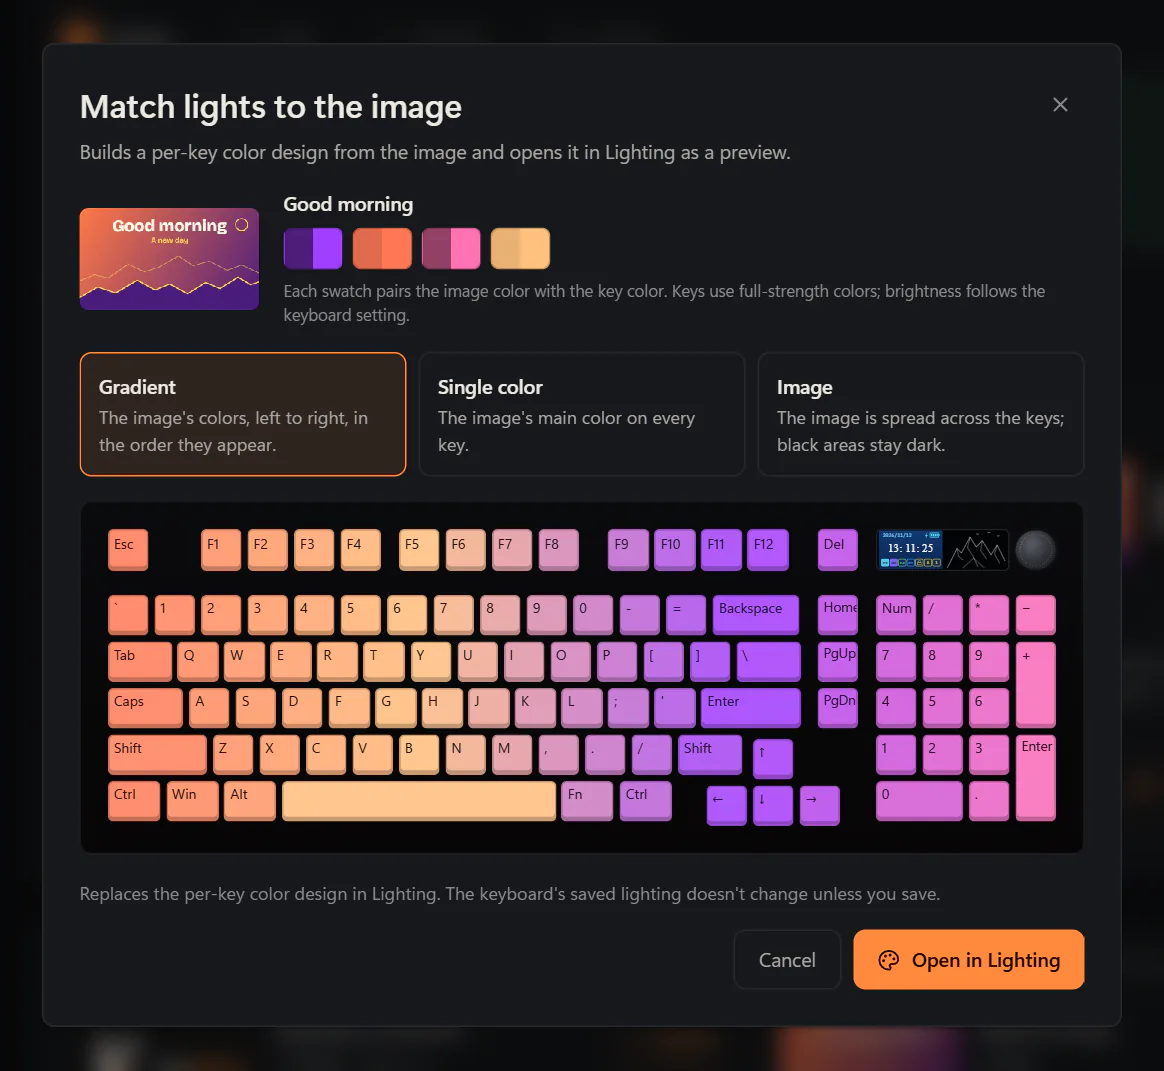
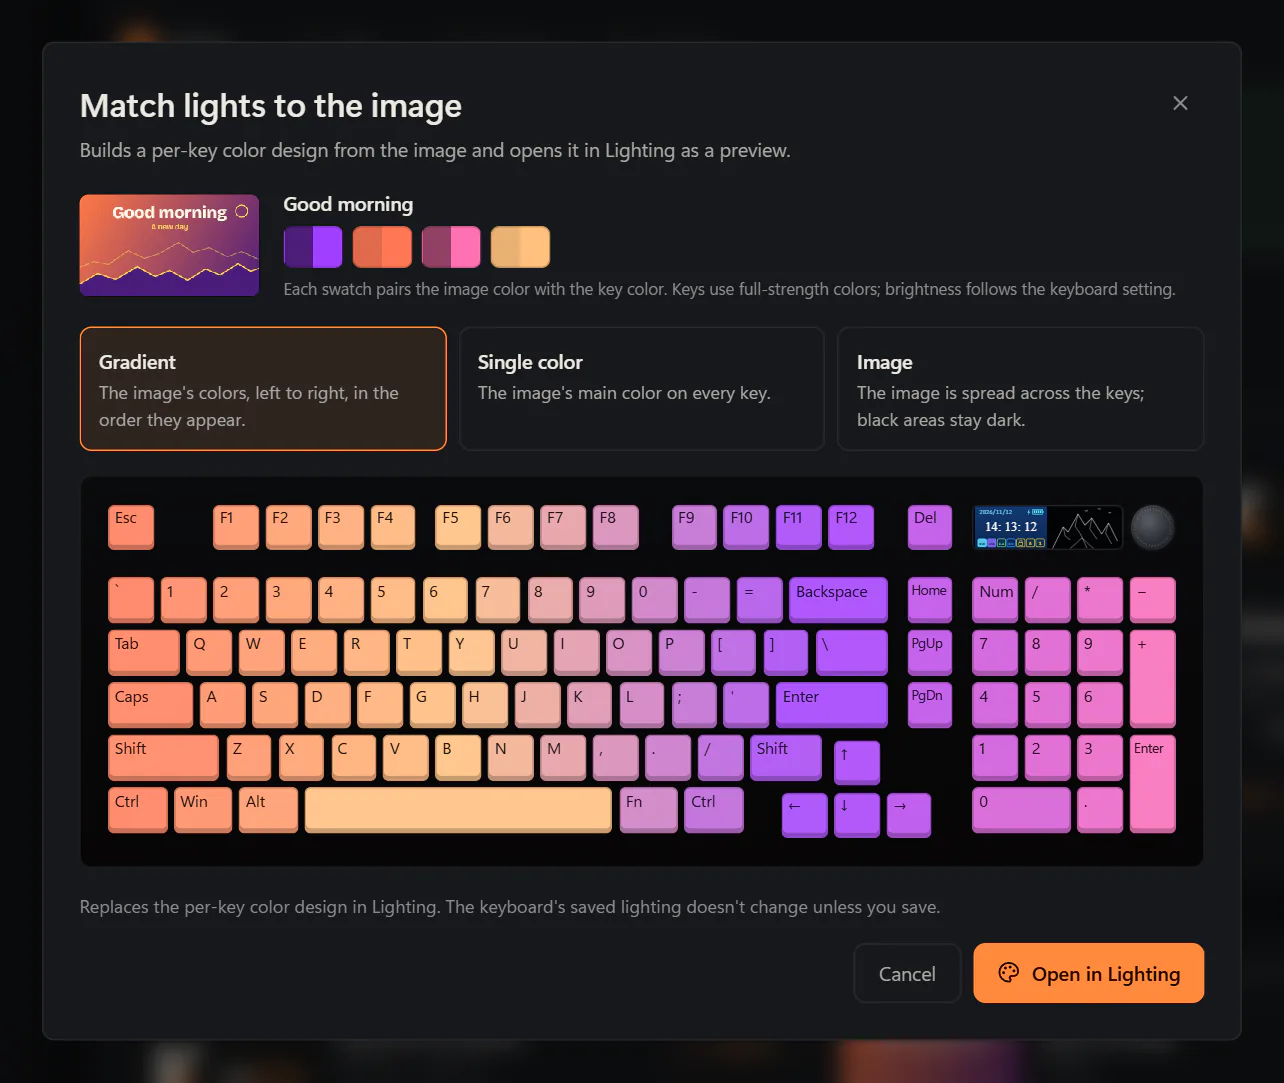
Small fixes found in stage 7 (roadmap 7.7)
App:
- "Turn on live mode?" and "Canlı mod" become "live screen" / "Canlı
  ekran", like the rest of the app and the guide.
- Live screen tab: which card is on the GIF page now comes from the
  backend (LiveState.showing). Before, "Your image" said "On screen now"
  whenever there was nothing to put back, for example after the first card
  replaced the factory animation. The Calendar page and the "On screen"
  line use it too.
- The GIF page's "Unknown" reads "Not uploaded from the app yet".
- Match lights: a wider window, and four-letter labels on 1u keys (Home,
  PgUp, PgDn) get more of the cap's width, so they no longer run into its
  edge.

Keyboard safety:
- 04 17 (keyboard options) comes off the allowlist: it writes flash and
  was never measured; the guard test now expects it blocked.
- Model file: [screen] verified = true (uploads measured on 2026-11-10);
  has_side_light is marked as unmeasured.
- kb: refuses to open the keyboard while another program uses it (the
  app included) and checks each channel's report layout, like the app.
  It still skips the firmware question on purpose (documented).

Browser preview (development only):
- The mirror reports the saved lighting, so previews and screenshots show
  lit keys; the problem report has realistic sample text; ?pomoskip=N
  starts the focus timer N minutes in.
- Screenshots retaken: overview, live screen, focus timer, report and
  match lights, and the README's main picture.

diff --git a/app/src/lib/i18n.ts b/app/src/lib/i18n.ts
@@ -429,7 +429,7 @@ const tr = {
   "sc.page.home.sub": "Değiştirilemez",
   "sc.page.gif": "GIF sayfası",
   "sc.page.gif.maybeFactory": "Büyük olasılıkla fabrika animasyonu",
-  "sc.page.gif.unknown": "Bilinmiyor",
+  "sc.page.gif.unknown": "Uygulamadan henüz yüklenmedi",
   "sc.pages.note": "Sayfalar arasında Fn+Home ile geçilir. Klavye saati ayarlanınca ekran saat sayfasına döner.",
   "sc.pages.safe": "Yüklemeler yalnızca GIF sayfasını değiştirir; saat sayfası hep yerinde kalır.",
   "sc.err.tooLarge": "Dosya çok büyük. Resim ve GIF en çok 64 MB, video en çok 1 GB olabilir.",
@@ -1121,9 +1121,9 @@ const tr = {
   "sc.factory.backup": "Resmi sürücüden yedek al",
   "sc.factory.backingUp": "Yedekleniyor…",
   "sc.factory.backedUp": "Fabrika animasyonu yedeklendi. Kütüphaneden istediğiniz zaman geri yükleyebilirsiniz.",
-  "sc.live.ack.title": "Canlı mod açılsın mı?",
-  "sc.live.ack.body": "Canlı mod kartları GIF sayfasına yükler. İlk kart klavyedeki fabrika animasyonunu kalıcı olarak siler ve uygulamada yedeği yok.",
-  "sc.live.ack.go": "Canlı modu aç",
+  "sc.live.ack.title": "Canlı ekran açılsın mı?",
+  "sc.live.ack.body": "Canlı ekran kartları GIF sayfasına yükler. İlk kart klavyedeki fabrika animasyonunu kalıcı olarak siler ve uygulamada yedeği yok.",
+  "sc.live.ack.go": "Canlı ekranı aç",
   "sc.incomplete.title": "Son yükleme yarım kaldı",
   "sc.incomplete.body": "GIF sayfasında yüklemenin yalnızca bir kısmı var; bozuk görünebilir.",
   "sc.incomplete.retry": "Düzeltmek için “{name}” görselini yeniden yükleyin.",
@@ -1136,7 +1136,7 @@ const tr = {
   "unsaved.write": "Klavyeye kaydediliyor. Bitmeden çıkarsanız ayar yarım kalabilir.",
   "write.reason": "Klavyeye kaydediliyor. Bilgisayarı şimdi kapatırsanız kayıt yarım kalabilir.",
   "err.noDriver": "Resmi sürücünün dosyası bulunamadı. Sürücüyü kurup uygulamayı yeniden başlatın.",
-  "err.factoryAck": "Canlı modu açmadan önce fabrika animasyonuyla ilgili soruyu yanıtlayın.",
+  "err.factoryAck": "Canlı ekranı açmadan önce fabrika animasyonuyla ilgili soruyu yanıtlayın.",
   // diagnostics and data
   "data.backup": "Yedekleme",
   "data.export": "Ayarları dışa aktar",
@@ -1868,7 +1868,7 @@ const en: Record<MessageKey, string> = {
   "sc.page.home.sub": "Can't be changed",
   "sc.page.gif": "GIF page",
   "sc.page.gif.maybeFactory": "Probably the factory animation",
-  "sc.page.gif.unknown": "Unknown",
+  "sc.page.gif.unknown": "Not uploaded from the app yet",
   "sc.pages.note": "Press Fn+Home to switch pages. Setting the keyboard clock brings back the clock page.",
   "sc.pages.safe": "Uploads change only the GIF page. The clock page always stays.",
   "sc.err.tooLarge": "This file is too large. Images and GIFs can be up to 64 MB, videos up to 1 GB.",
@@ -2560,9 +2560,9 @@ const en: Record<MessageKey, string> = {
   "sc.factory.backup": "Back up from the official driver",
   "sc.factory.backingUp": "Backing up…",
   "sc.factory.backedUp": "The factory animation is backed up. You can restore it from the library any time.",
-  "sc.live.ack.title": "Turn on live mode?",
-  "sc.live.ack.body": "Live mode uploads cards to the GIF page. The first card permanently erases the factory animation on the keyboard, and the app has no backup of it.",
-  "sc.live.ack.go": "Turn on live mode",
+  "sc.live.ack.title": "Turn on live screen?",
+  "sc.live.ack.body": "Live screen uploads cards to the GIF page. The first card permanently erases the factory animation on the keyboard, and the app has no backup of it.",
+  "sc.live.ack.go": "Turn on live screen",
   "sc.incomplete.title": "The last upload didn't finish",
   "sc.incomplete.body": "The GIF page holds only part of the upload and may look broken.",
   "sc.incomplete.retry": "To fix it, upload “{name}” again.",
@@ -2575,7 +2575,7 @@ const en: Record<MessageKey, string> = {
   "unsaved.write": "Saving to the keyboard. Quitting now can leave the setting half saved.",
   "write.reason": "Saving to the keyboard. Shutting down now can leave it half saved.",
   "err.noDriver": "The official driver's file wasn't found. Install the driver, then restart the app.",
-  "err.factoryAck": "Before turning on live mode, answer the question about the factory animation.",
+  "err.factoryAck": "Before turning on live screen, answer the question about the factory animation.",
   // diagnostics and data
   "data.backup": "Backup",
   "data.export": "Export settings",

diff --git a/app/src/lib/ipc.ts b/app/src/lib/ipc.ts
@@ -320,13 +320,52 @@ export function setLiveFrame(colors: LedColor[] | null, brightness = 5): Promise
  * what the app last saved there; it resolves the read-back's red channel.
  */
 export function setMirror(enabled: boolean, hint: MirrorHint | null = null): Promise<void> {
-  if (import.meta.env.DEV && !inTauri) return Promise.resolve();
+  if (import.meta.env.DEV && !inTauri) {
+    if (enabled && hint) mockMirrorListener?.(mockMirrorColors(hint));
+    return Promise.resolve();
+  }
   return serial(() => invoke<void>("set_mirror", { enabled, hint }));
 }
 
 export async function onMirror(cb: (colors: LedColor[]) => void): Promise<UnlistenFn> {
-  if (import.meta.env.DEV && !inTauri) return () => {};
+  if (import.meta.env.DEV && !inTauri) {
+    mockMirrorListener = cb;
+    return () => {
+      if (mockMirrorListener === cb) mockMirrorListener = null;
+    };
+  }
   return listen<LedColor[]>("lighting-mirror", (e) => cb(e.payload));
+}
+
+// Browser mock: the mirror reports what was last saved, as the keyboard
+// would (a single-colour effect on every key, a rainbow across the board for
+// the others, a per-key design as saved), so previews and screenshots show
+// lit keys.
+let mockMirrorListener: ((colors: LedColor[]) => void) | null = null;
+
+function mockMirrorColors(hint: MirrorHint): LedColor[] {
+  const scale = Math.max(0, Math.min(5, hint.brightness)) / 5;
+  const dim = (c: LedColor): LedColor => ({
+    led: c.led,
+    r: Math.round(c.r * scale),
+    g: Math.round(c.g * scale),
+    b: Math.round(c.b * scale),
+  });
+  if (hint.keys) return hint.keys.map(dim);
+  const keys = ak980Geometry.keys;
+  if (hint.color) {
+    const n = Number.parseInt(hint.color.slice(1), 16);
+    return keys.map((k) => dim({ led: k.led, r: (n >> 16) & 255, g: (n >> 8) & 255, b: n & 255 }));
+  }
+  return keys.map((k) => {
+    // Hue by position, full saturation: the rainbow most effects start with.
+    const h = ((k.x / ak980Geometry.width) * 360) % 360;
+    const f = (o: number) => {
+      const t = (o + h / 60) % 6;
+      return Math.round(255 * (1 - Math.max(0, Math.min(1, Math.min(t, 4 - t)))));
+    };
+    return dim({ led: k.led, r: f(5), g: f(3), b: f(1) });
+  });
 }
 
 // Browser-only stand-in for the keyboard clock state.
@@ -510,9 +549,31 @@ export function logUiError(message: string): Promise<void> {
  *  lines). A problem report passes what happened (`context`) for the top. */
 export async function getDiagnostics(language: string, context?: string): Promise<string> {
   if (import.meta.env.DEV && !inTauri) {
+    // Shaped like the real report (app/src-tauri/src/diagnostics.rs), with
+    // made-up values, so previews and screenshots look right.
     await mockDelay(150);
-    const what = context ? `\nWhat happened:\n  ${context.split("\n").join("\n  ")}\n` : "";
-    return `Browser preview diagnostics\nUI language: ${language}${what}\nUser agent: ${navigator.userAgent}\n`;
+    const what = context ? `\n\nWhat happened:\n  ${context.split("\n").join("\n  ")}` : "";
+    return [
+      "Keymotion diagnostics",
+      `Created: ${new Date().toISOString().replace(/\.\d{3}Z$/, "Z")}`,
+      "App version: 0.1.0",
+      "Windows: Windows 11 Home 25H2 (build 26200.7171)",
+      "WebView2: 142.0.3595.80",
+      `UI language: ${language}${what}`,
+      "",
+      "Keyboards:",
+      '  AJAZZ AK980 PRO (ajazz-ak980-pro), usb, firmware 1.06, product "AK980 PRO"',
+      "",
+      "Data files:",
+      "  lighting.json (2.1 KB)",
+      "  settings.json (1.4 KB)",
+      "",
+      "Last 3 log lines (addresses and user names removed):",
+      "2026-11-12T10:14:58Z  INFO keyboard connected model=ajazz-ak980-pro connection=usb",
+      "2026-11-12T10:15:02Z  INFO lighting saved mode=wave brightness=4",
+      "2026-11-12T10:15:40Z  INFO clock set",
+      "",
+    ].join("\n");
   }
   return invoke<string>("diagnostics_report", { language, context: context ?? null });
 }
@@ -1071,7 +1132,7 @@ function mockKeyboards(): KeyboardInfo[] {
       keyCount: 97,
       hasKnob: true,
       hasSideLight: true,
-      screen: { width: 240, height: 135, verified: false },
+      screen: { width: 240, height: 135, verified: true },
       connection: usb ? "usb" : dongle ? "dongle" : "bluetooth",
       product: usb ? "SONiX AK980 PRO" : null,
       firmware: usb ? mockFirmware() : null,

diff --git a/app/src/pages/screen/LivePanel.tsx b/app/src/pages/screen/LivePanel.tsx
@@ -129,11 +129,11 @@ type Layered = "calendar" | "reminder" | "pomodoro" | "song" | "own";
 
 /** Which layer is on the GIF page now. */
 function onScreen(s: LiveState): Layered {
-  if (s.uploading?.source === "restore" || !s.restore) return "own";
-  if (s.last?.source === CALENDAR_SOURCE) return "calendar";
-  if (s.last?.source === REMINDER_SOURCE) return "reminder";
-  if (s.last?.source === POMODORO_SOURCE) return "pomodoro";
-  if (s.last?.source === NOW_PLAYING_SOURCE) return "song";
+  if (s.uploading?.source === "restore") return "own";
+  if (s.showing === CALENDAR_SOURCE) return "calendar";
+  if (s.showing === REMINDER_SOURCE) return "reminder";
+  if (s.showing === POMODORO_SOURCE) return "pomodoro";
+  if (s.showing === NOW_PLAYING_SOURCE) return "song";
   return "own";
 }
 
@@ -620,7 +620,7 @@ function StatusLine({ s, usb }: { s: LiveState; usb: boolean }) {
         <p className={`${row} text-ink-2`}>
           <Upload size={14} className="text-ok" />
           {/* After going back to the own picture the card is not on the screen any more. */}
-          {s.restore ? t("sc.live.last") : t("sc.live.lastCard")}: <span className="truncate font-medium">{s.last.name}</span>
+          {s.showing ? t("sc.live.last") : t("sc.live.lastCard")}: <span className="truncate font-medium">{s.last.name}</span>
           <span className="num text-ink-3">
             · {new Date(s.last.atMs).toLocaleTimeString([], { hour: "2-digit", minute: "2-digit" })}
           </span>

diff --git a/app/src/lib/pomodoro.ts b/app/src/lib/pomodoro.ts
@@ -100,6 +100,12 @@ export function fmtClock(ms: number) {
 /** Browser preview without Tauri: the same timer in memory. With
  *  `pomofast` in the address a minute lasts two seconds. */
 const MINUTE = import.meta.env.DEV && typeof location !== "undefined" && location.search.includes("pomofast") ? 2_000 : 60_000;
+/** `pomoskip=7`: the first block starts 7 minutes in, so a screenshot shows
+ *  a timer partly run, at normal speed and with a real time on the ring. */
+const SKIP_MS =
+  import.meta.env.DEV && typeof location !== "undefined"
+    ? Math.max(0, Number(new URLSearchParams(location.search).get("pomoskip") ?? 0) || 0) * MINUTE
+    : 0;
 
 const mock = {
   settings: { ...DEFAULT_SETTINGS },
@@ -168,7 +174,8 @@ function mockBegin(block: number) {
   const phase = s.blocks[mock.block]?.phase ?? "focus";
   mock.phase = phase;
   mock.phaseMs = minutesAt(s, mock.block) * MINUTE;
-  mock.anchor = Date.now();
+  const first = mock.block === 0 && mock.cycle === 1 && mock.focusDone === 0;
+  mock.anchor = Date.now() - (first ? Math.min(SKIP_MS, mock.phaseMs - MINUTE) : 0);
   mock.status = "running";
   if (mockCardsWanted()) {
     const card: PomodoroCard = {

diff --git a/app/src/lib/live.ts b/app/src/lib/live.ts
@@ -40,6 +40,7 @@ const mock = {
     nowPlaying: true,
     track: null,
     restore: null,
+    showing: null,
     held: false,
     holders: [],
     songStop: "back",
@@ -71,6 +72,7 @@ function mockEmit() {
   const shown = mockShown();
   mock.state.own = shown === "live" ? mock.before : shown;
   mock.state.restore = shown === "live" && !mock.state.uploading ? mock.before : null;
+  mock.state.showing = shown === "live" ? (mock.state.last?.source ?? null) : null;
   mock.state.factoryAckNeeded = !mock.factoryAck && mockFactoryAtRisk();
   mock.emit?.({ ...mock.state });
 }

diff --git a/app/src/bindings/LiveState.ts b/app/src/bindings/LiveState.ts
@@ -36,6 +36,14 @@ nowPlaying: boolean, track: TrackInfo | null,
  */
 restore: LiveRestore | null, 
 /**
+ * The source whose card is on the GIF page now (`calendar`,
+ * `reminder`, `pomodoro`, `now-playing`), as far as the app knows;
+ * null when the user's own picture or the factory animation is there.
+ * Not the same as `restore`: the first card can replace the factory
+ * animation, which has nothing to put back.
+ */
+showing: string | null, 
+/**
  * Someone holds the screen (the calendar around a meeting, the focus
  * timer while it runs): "Çalan şarkı" waits.
  */

diff --git a/app/src/pages/screen/MatchLights.tsx b/app/src/pages/screen/MatchLights.tsx
@@ -82,7 +82,7 @@ export function MatchLightsDialog({
       aria-modal
       aria-labelledby="lm-title"
     >
-      <motion.div initial={{ scale: 0.97, y: 8 }} animate={{ scale: 1, y: 0 }} className="card flex w-[720px] max-w-[94vw] flex-col gap-4 p-6">
+      <motion.div initial={{ scale: 0.97, y: 8 }} animate={{ scale: 1, y: 0 }} className="card flex w-[800px] max-w-[94vw] flex-col gap-4 p-6">
         <div className="flex items-start justify-between gap-4">
           <div>
             <h2 id="lm-title" className="font-display text-[22px] font-semibold">

diff --git a/app/src/pages/Calendar.tsx b/app/src/pages/Calendar.tsx
@@ -17,7 +17,7 @@ export function Calendar() {
   const live = useLive((x) => x.state);
   const openScreen = useApp((s) => s.openScreen);
   if (!c) return null;
-  const key = live ? calendarStatus(live, c, !!live.restore && live.last?.source === CALENDAR_SOURCE) : null;
+  const key = live ? calendarStatus(live, c, live.showing === CALENDAR_SOURCE) : null;
   const status = key ? (key === "calendar.st.next" && c.nextCardMs != null ? t(key, { time: hhmm(c.nextCardMs) }) : t(key)) : null;
 
   return (

diff --git a/app/src/styles.css b/app/src/styles.css
@@ -357,9 +357,12 @@ body {
   color: #f6f3ec;
 }
 
-/* Four-letter labels on 1u keys (Home, PgUp) step down, never below 9 px. */
+/* Four-letter labels on 1u keys (Home, PgUp) step down, never below 9 px,
+   and get most of the cap's width so they don't run into its edge. */
 .kb-key.kb-long {
   font-size: max(9px, min(12px, calc(var(--u) * 0.25)));
+  padding-inline: calc(var(--u) * 0.05);
+  letter-spacing: -0.02em;
 }
 
 /* Legends under 9 px are hidden rather than shrunk (see KeyboardView). */

diff --git a/app/src/lib/offline.ts b/app/src/lib/offline.ts
@@ -31,7 +31,7 @@ export const OFFLINE_KEYBOARD: KeyboardInfo = {
   keyCount: 97,
   hasKnob: true,
   hasSideLight: true,
-  screen: { width: 240, height: 135, verified: false },
+  screen: { width: 240, height: 135, verified: true },
   connection: "usb",
   product: null,
   firmware: null,

diff --git a/crates/kb-cli/src/main.rs b/crates/kb-cli/src/main.rs
@@ -4,6 +4,13 @@
 //! `direction-probe` write the keyboard's flash, and all need `--yes`. `live` and `live-probe` stream RAM-only real-time LED frames;
 //! `clock` sets the keyboard clock; everything else only reads. Flash-writing commands are added only after
 //! they are verified on the hardware.
+//!
+//! Like the app, every packet passes `kb_protocol::sonix::guard`, a channel
+//! is used only when its report layout is the "04 xx" family's, and nothing
+//! is sent while another program talks to the keyboard (the app itself
+//! included). Unlike the app, it does not ask about firmware versions the
+//! model file has not listed: measuring a new firmware is what it is for,
+//! and `--yes` is the confirmation for flash writes.
 
 mod motion;
 mod png;
@@ -515,14 +522,36 @@ fn keymap_targets() {
     println!("Diğer: default (firmware varsayılanı), off (devre dışı)");
 }
 
+/// Refuse to talk to the keyboard while another program does: the ones the
+/// app watches for (kb_core::conflicts) and the app itself. Two programs'
+/// packets mix in one session, and a broken flash write does not recover.
+fn ensure_alone() -> Result<()> {
+    let programs = kb_winsys::running_programs();
+    let own = std::process::id();
+    let running = programs.iter().map(|p| (p.pid, p.name.as_str(), p.path.as_deref()));
+    if let Some(c) = kb_core::conflicts::find_conflict(running, own) {
+        anyhow::bail!("Klavyeyi başka bir program kullanıyor ({}). Önce onu kapatın.", c.id());
+    }
+    if programs.iter().any(|p| p.pid != own && p.name.eq_ignore_ascii_case("keymotion.exe")) {
+        anyhow::bail!("Keymotion açık. Önce ondan çıkın (saatin yanındaki simge › Çık).");
+    }
+    Ok(())
+}
+
 /// Open the wired command channel of the first supported keyboard.
 fn open_command() -> Result<(kb_core::sonix::SonixFf13<kb_transport::hid::HidChannel>, &'static kb_devices::Model)> {
+    ensure_alone()?;
     let models = catalogue().map_err(|e| anyhow::anyhow!("{e}"))?;
     let hid = Hid::new()?;
     for iface in hid.interfaces() {
         let Some(m) = match_interface(models, &probe(&iface)) else { continue };
         if m.role == InterfaceRole::Command && m.mode.kind == kb_devices::ConnectionKind::Usb {
             let ch = hid.open(&iface).context("komut kanalı açılamadı")?;
+            let desc = ch.report_descriptor().context("komut kanalının tanımlayıcısı okunamadı")?;
+            anyhow::ensure!(
+                kb_core::shape::is_command_shape(&desc),
+                "komut kanalının rapor düzeni beklenen \"04 xx\" ailesinin değil; hiçbir şey gönderilmedi"
+            );
             return Ok((kb_core::sonix::SonixFf13::new(ch), m.model));
         }
     }
@@ -531,13 +560,20 @@ fn open_command() -> Result<(kb_core::sonix::SonixFf13<kb_transport::hid::HidCha
 
 /// Open the wired display channel (FF68) of the first supported keyboard.
 fn open_display() -> Result<kb_transport::hid::HidChannel> {
+    ensure_alone()?;
     let models = catalogue().map_err(|e| anyhow::anyhow!("{e}"))?;
     let hid = Hid::new()?;
     for iface in hid.interfaces() {
         let Some(m) = match_interface(models, &probe(&iface)) else { continue };
         if m.role == InterfaceRole::Display && m.mode.kind == kb_devices::ConnectionKind::Usb {
             anyhow::ensure!(iface.usage_page == hid::DISPLAY_USAGE_PAGE, "ekran kanalı beklenmeyen usage page");
-            return hid.open(&iface).context("ekran kanalı açılamadı");
+            let ch = hid.open(&iface).context("ekran kanalı açılamadı")?;
+            let desc = ch.report_descriptor().context("ekran kanalının tanımlayıcısı okunamadı")?;
+            anyhow::ensure!(
+                kb_core::shape::is_display_shape(&desc),
+                "ekran kanalının rapor düzeni beklenen gibi değil; hiçbir şey gönderilmedi"
+            );
+            return Ok(ch);
         }
     }
     anyhow::bail!("USB modunda ekran kanalı yok. Kablo takılı ve arkadaki anahtar ortada (USB) olmalı.")

diff --git a/crates/kb-protocol/src/sonix.rs b/crates/kb-protocol/src/sonix.rs
@@ -50,8 +50,6 @@ pub enum Op {
     PerKeyColors = 0x23,
     /// Read back the colours currently shown (read-only).
     ReadColors = 0xF5,
-    /// Options: sleep, Win lock, … (flash write).
-    Options = 0x17,
     /// Base-layer keymap (flash write).
     KeymapBase = 0x11,
     /// Fn-layer keymap (flash write).
@@ -78,7 +76,6 @@ impl Op {
             0x13 => Lighting,
             0x23 => PerKeyColors,
             0xF5 => ReadColors,
-            0x17 => Options,
             0x11 => KeymapBase,
             0x27 => KeymapFn,
             0x19 => MacroBegin,
@@ -548,8 +545,10 @@ mod tests {
     fn guard_blocks_unknown_opcodes() {
         let mut p = header(Op::Begin, 0, 0);
         // 38 writes external flash from address 0, 1F reboots into the
-        // bootloader, 50/51 are unverified resets.
-        for op in [0x38u8, 0x1F, 0x05, 0x10, 0x12, 0x22, 0x26, 0x50, 0x51, 0xAB, 0xE0, 0xF1, 0xF6] {
+        // bootloader, 50/51 are unverified resets, 17 (keyboard options:
+        // sleep, Win lock) writes flash but has not been measured yet; it
+        // goes back on the list with its encoder once it is.
+        for op in [0x38u8, 0x1F, 0x05, 0x10, 0x12, 0x17, 0x22, 0x26, 0x50, 0x51, 0xAB, 0xE0, 0xF1, 0xF6] {
             p[1] = op;
             assert_eq!(guard(&p, PacketKind::Header), Err(Blocked::Opcode(op)), "op {op:02X}");
         }
